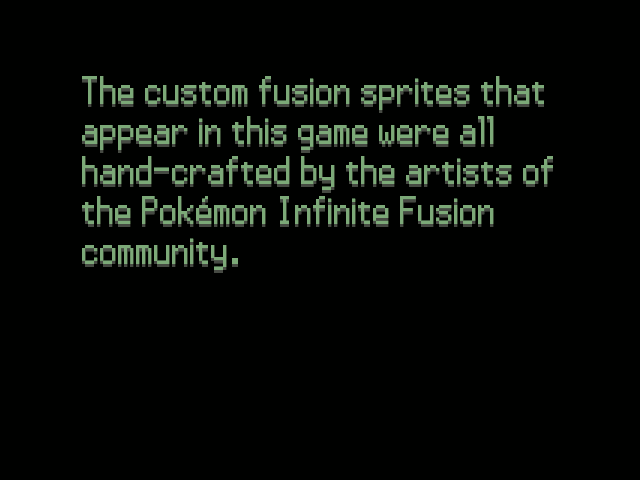
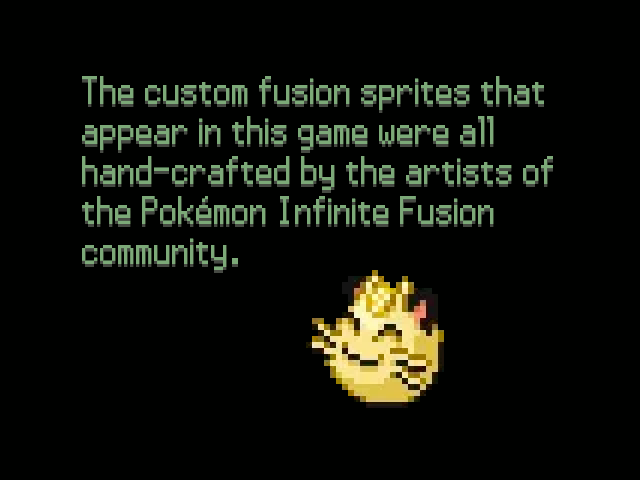
Promps users for updating spritepack files

Changed region(s): [[0.4688, 0.5625, 0.7188, 0.8438]]

diff --git a/Data/Scripts/052_AddOns/MultiSaves.rb b/Data/Scripts/052_AddOns/MultiSaves.rb
@@ -379,9 +379,22 @@ class PokemonLoadScreen
   def check_for_spritepack_update()
     $updated_spritesheets = [] if !$updated_spritesheets
     if new_spritepack_was_released()
-      reset_updated_spritesheets_cache()
-      $updated_spritesheets = []
-    end
+      pbFadeOutIn() {
+        return if !downloadAllowed?()
+        should_update = pbConfirmMessage("A new spritepack was released. Would you like to let the game update your game's sprites automatically?")
+        if should_update
+          updateCreditsFile()
+          updateOnlineCustomSpritesFile()
+          reset_updated_spritesheets_cache()
+          spritesLoader = BattleSpriteLoader.new
+          spritesLoader.clear_sprites_cache(:CUSTOM)
+          spritesLoader.clear_sprites_cache(:BASE)
+
+          $updated_spritesheets = []
+          pbMessage("Data files updated. New sprites will now be downloaded as you play!")
+        end
+    }
+      end
   end
 
   def reset_updated_spritesheets_cache()
@@ -426,9 +439,7 @@ class PokemonLoadScreen
 
   def pbStartLoadScreen
     updateHttpSettingsFile
-    updateCreditsFile
     updateCustomDexFile
-    updateOnlineCustomSpritesFile
     newer_version = find_newer_available_version
     if newer_version
       pbMessage(_INTL("Version {1} is now available! Please use the game's installer to download the newest version. Check the Discord for more information.", newer_version))
@@ -444,6 +455,7 @@ class PokemonLoadScreen
       pbMessage(_INTL("{1} new custom sprites were imported into the game", $game_temp.nb_imported_sprites.to_s))
     end
     checkEnableSpritesDownload
+
     $game_temp.nb_imported_sprites = nil
     copyKeybindings()
     save_file_list = SaveData::AUTO_SLOTS + SaveData::MANUAL_SLOTS
@@ -507,11 +519,11 @@ class PokemonLoadScreen
           @scene.pbEndScene
           Game.load(@save_data)
           $game_switches[SWITCH_V5_1] = true
+          check_for_spritepack_update()
           ensureCorrectDifficulty()
           setGameMode()
           initialize_alt_sprite_substitutions()
           $PokemonGlobal.autogen_sprites_cache = {}
-          check_for_spritepack_update()
           preload_party(@save_data[:player])
           return
         when cmd_new_game

diff --git a/Data/Scripts/052_AddOns/HttpCalls.rb b/Data/Scripts/052_AddOns/HttpCalls.rb
@@ -43,6 +43,7 @@ def download_file(url, saveLocation)
       return saveLocation
     else
       echoln _INTL("Failed to download file {1}", url)
+      echoln caller
     end
     return nil
   rescue MKXPError, Errno::ENOENT => error
@@ -72,6 +73,7 @@ def fetch_sprite_from_web(url, destinationPath)
       return true
     end
     echoln "Failed to download #{url}"
+    echoln caller
     return false
   rescue MKXPError => e
     echoln "MKXPError: #{e.message}"
@@ -85,8 +87,7 @@ def fetch_sprite_from_web(url, destinationPath)
 end
 
 def download_spritesheet(pif_sprite, dest)
-  #return nil if requestRateExceeded?(Settings::CUSTOMSPRITES_RATE_LOG_FILE,Settings::CUSTOMSPRITES_ENTRIES_RATE_TIME_WINDOW,Settings::CUSTOMSPRITES_RATE_MAX_NB_REQUESTS)
-  return nil if requestRateExceeded?(Settings::CUSTOMSPRITES_RATE_LOG_FILE, 60, 15)
+  return nil if requestRateExceeded?(Settings::CUSTOMSPRITES_RATE_LOG_FILE,Settings::CUSTOMSPRITES_ENTRIES_RATE_TIME_WINDOW,Settings::CUSTOMSPRITES_RATE_MAX_NB_REQUESTS)
   case pif_sprite.type
   when :AUTOGEN
     return
@@ -420,8 +421,8 @@ def requestRateExceeded?(logFile, timeWindow, maxRequests, update_log_file = tru
   # Write the updated log back to the file
   if update_log_file
     File.write(logFile, request_timestamps.join("\n"))
-    echoln "Rate limiting: Current: #{request_timestamps.size}, Max: #{maxRequests}"
   end
+  echoln "Rate limiting: Current: #{request_timestamps.size}, Max: #{maxRequests}"
   rateLimitExceeded = request_timestamps.size > maxRequests
   return rateLimitExceeded
 end

diff --git a/Data/Scripts/DownloadedSettings.rb b/Data/Scripts/DownloadedSettings.rb
@@ -32,8 +32,8 @@ module Settings
   BASE_POKEMON_SPRITESHEET_TRUE_SIZE_URL = "https://infinitefusion.net/customsprites/spritesheets/spritesheets_base/"
   CUSTOM_FUSIONS_SPRITESHEET_TRUE_SIZE_URL = "https://infinitefusion.net/customsprites/spritesheets/spritesheets_custom/"
   
-  CUSTOMSPRITES_RATE_MAX_NB_REQUESTS = 5  #Nb. requests allowed in each time window
-  CUSTOMSPRITES_ENTRIES_RATE_TIME_WINDOW = 120    # In seconds
+  CUSTOMSPRITES_RATE_MAX_NB_REQUESTS = 15  #Nb. requests allowed in each time window
+  CUSTOMSPRITES_ENTRIES_RATE_TIME_WINDOW = 60    # In seconds
   MAX_NB_SPRITES_TO_DOWNLOAD_AT_ONCE =5
 
   #POKEDEX ENTRIES
@@ -44,7 +44,7 @@ module Settings
   AI_ENTRIES_RATE_LOG_FILE = 'Data/pokedex/rate_limit.log'  # Path to the log file
 
   #Spritepack
-  NEWEST_SPRITEPACK_MONTH = 2
+  NEWEST_SPRITEPACK_MONTH = 4
   NEWEST_SPRITEPACK_YEAR = 2025
 
 
